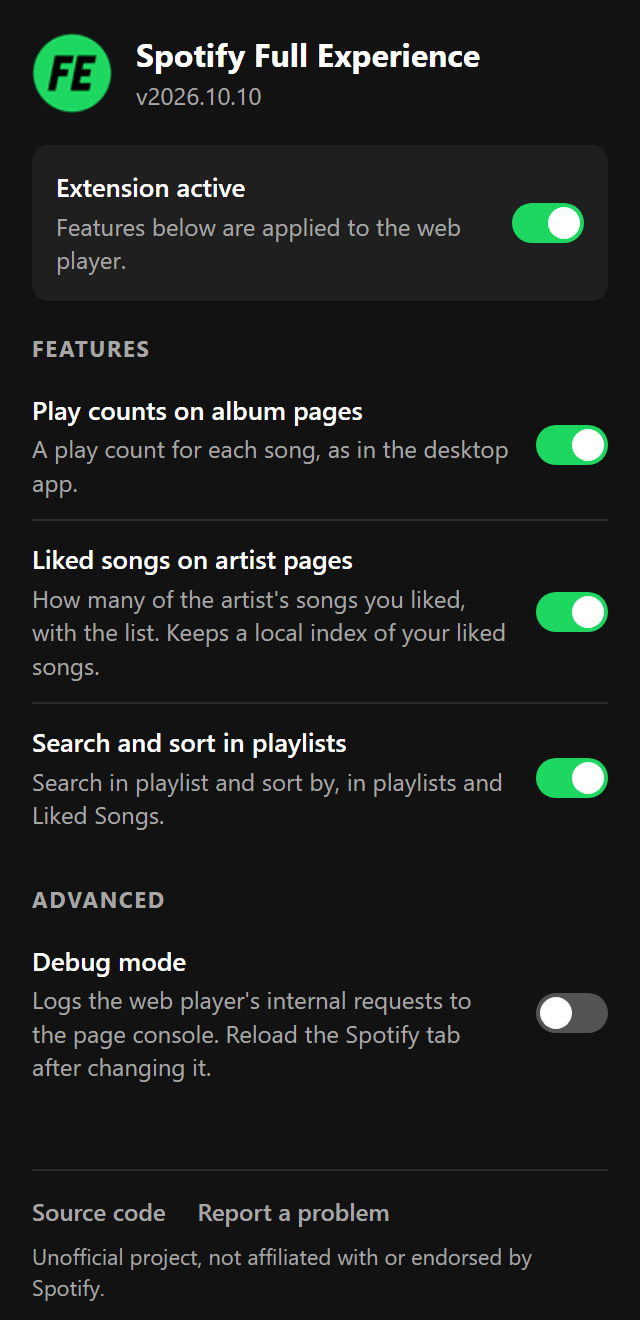
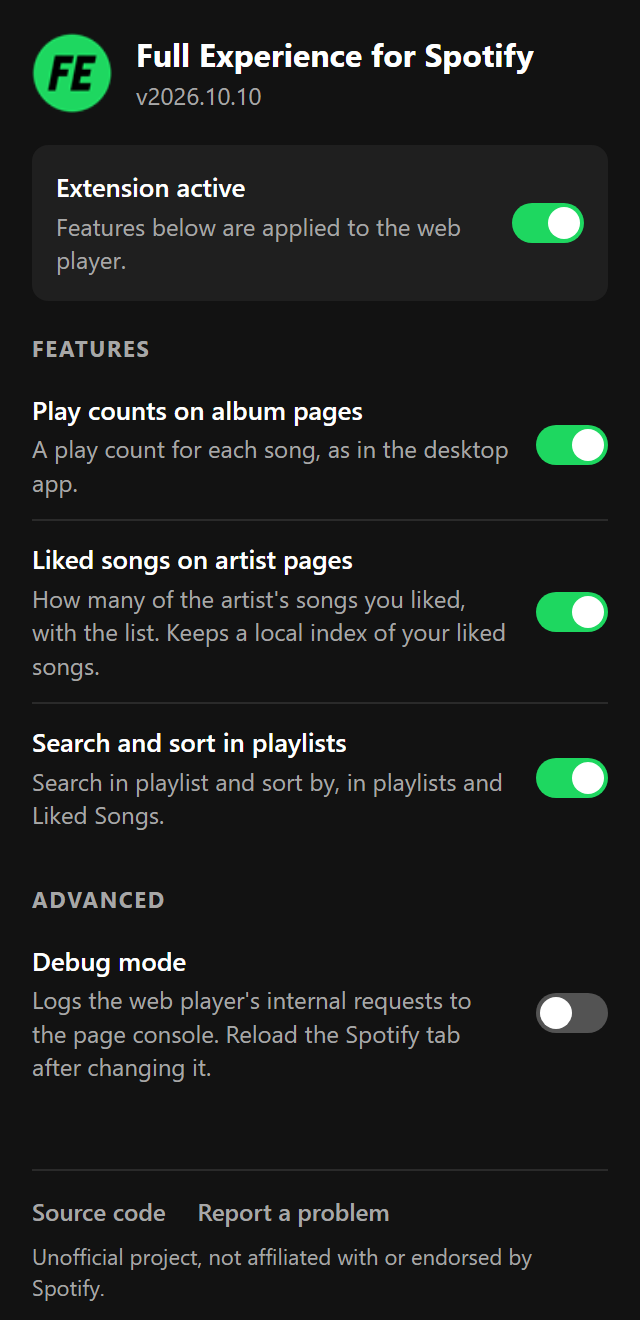
feat: rename the extension to Full Experience for Spotify

Changed region(s): [[0.2188, 0.0311, 0.8438, 0.0621]]

diff --git a/test/unit/popup.test.ts b/test/unit/popup.test.ts
@@ -56,7 +56,7 @@ describe('settings form', () => {
       return { ...stored };
     },
     t: (key) => key,
-    name: 'Spotify Full Experience',
+    name: 'Full Experience for Spotify',
     version: '2026.10.10',
     iconUrl: 'icons/icon-48.png',
     links: { source: 'https://github.com/owner/repo', issues: 'https://github.com/owner/repo/issues/new' },
@@ -78,7 +78,7 @@ describe('settings form', () => {
 
   it('shows the name, the version and the stored switches', async () => {
     await renderSettingsForm(root, deps());
-    expect(root.querySelector('.name')?.textContent).toBe('Spotify Full Experience');
+    expect(root.querySelector('.name')?.textContent).toBe('Full Experience for Spotify');
     expect(root.querySelector('.version')?.textContent).toBe('v2026.10.10');
     expect(input('enabled').checked).toBe(true);
     expect(input('playcounts').checked).toBe(true);

diff --git a/src/popup/popup.html b/src/popup/popup.html
@@ -3,7 +3,7 @@
   <head>
     <meta charset="utf-8" />
     <meta name="viewport" content="width=device-width, initial-scale=1" />
-    <title>Spotify Full Experience</title>
+    <title>Full Experience for Spotify</title>
     <link rel="stylesheet" href="popup.css" />
   </head>
   <body>

diff --git a/README.md b/README.md
@@ -1,6 +1,6 @@
 <p align="center"><img src="assets/icons/icon-128.png" width="96" alt=""></p>
 
-<h1 align="center">Spotify Full Experience</h1>
+<h1 align="center">Full Experience for Spotify</h1>
 
 <p align="center">A browser extension that adds to the Spotify web player some of what only the desktop app has.<br>It runs on Chrome, Brave, Edge and Firefox.</p>
 
@@ -66,12 +66,15 @@ In Firefox, open `about:debugging#/runtime/this-firefox`, click "Load Temporary 
 - Audio, DRM and ads are left alone, and Premium features stay locked.
 - Play, queue, playlist and like actions run only when you click them.
 
+The full [privacy policy](PRIVACY.md) explains what the extension reads and stores.
+
 ## Development
 
 ```sh
 npm run watch       # rebuild on change
 npm test
 npm run typecheck
+npm run package     # store zips in release/
 ```
 
 To report a bug, [open an issue](https://github.com/fabrizio-ferrentino/spotify-full-experience/issues/new).
